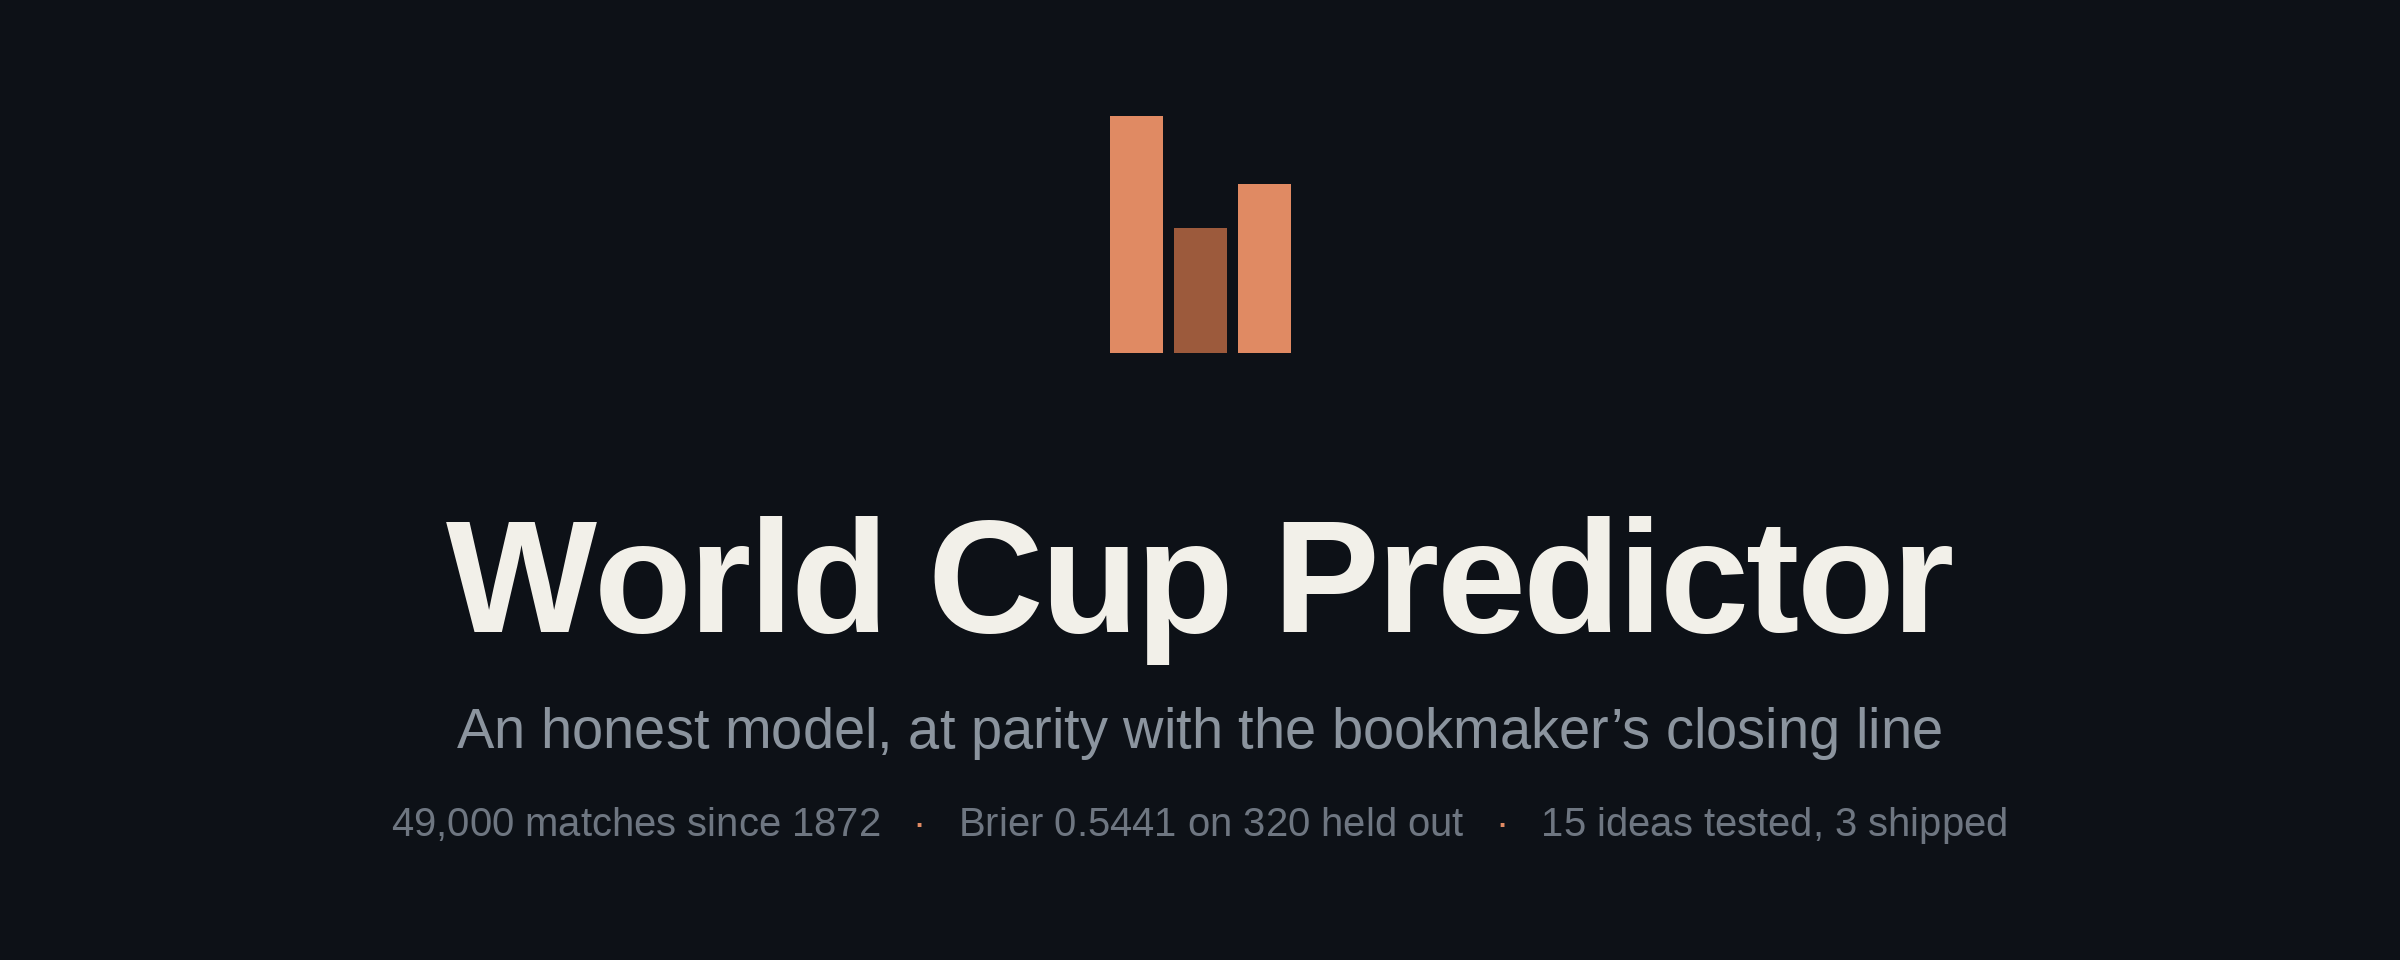
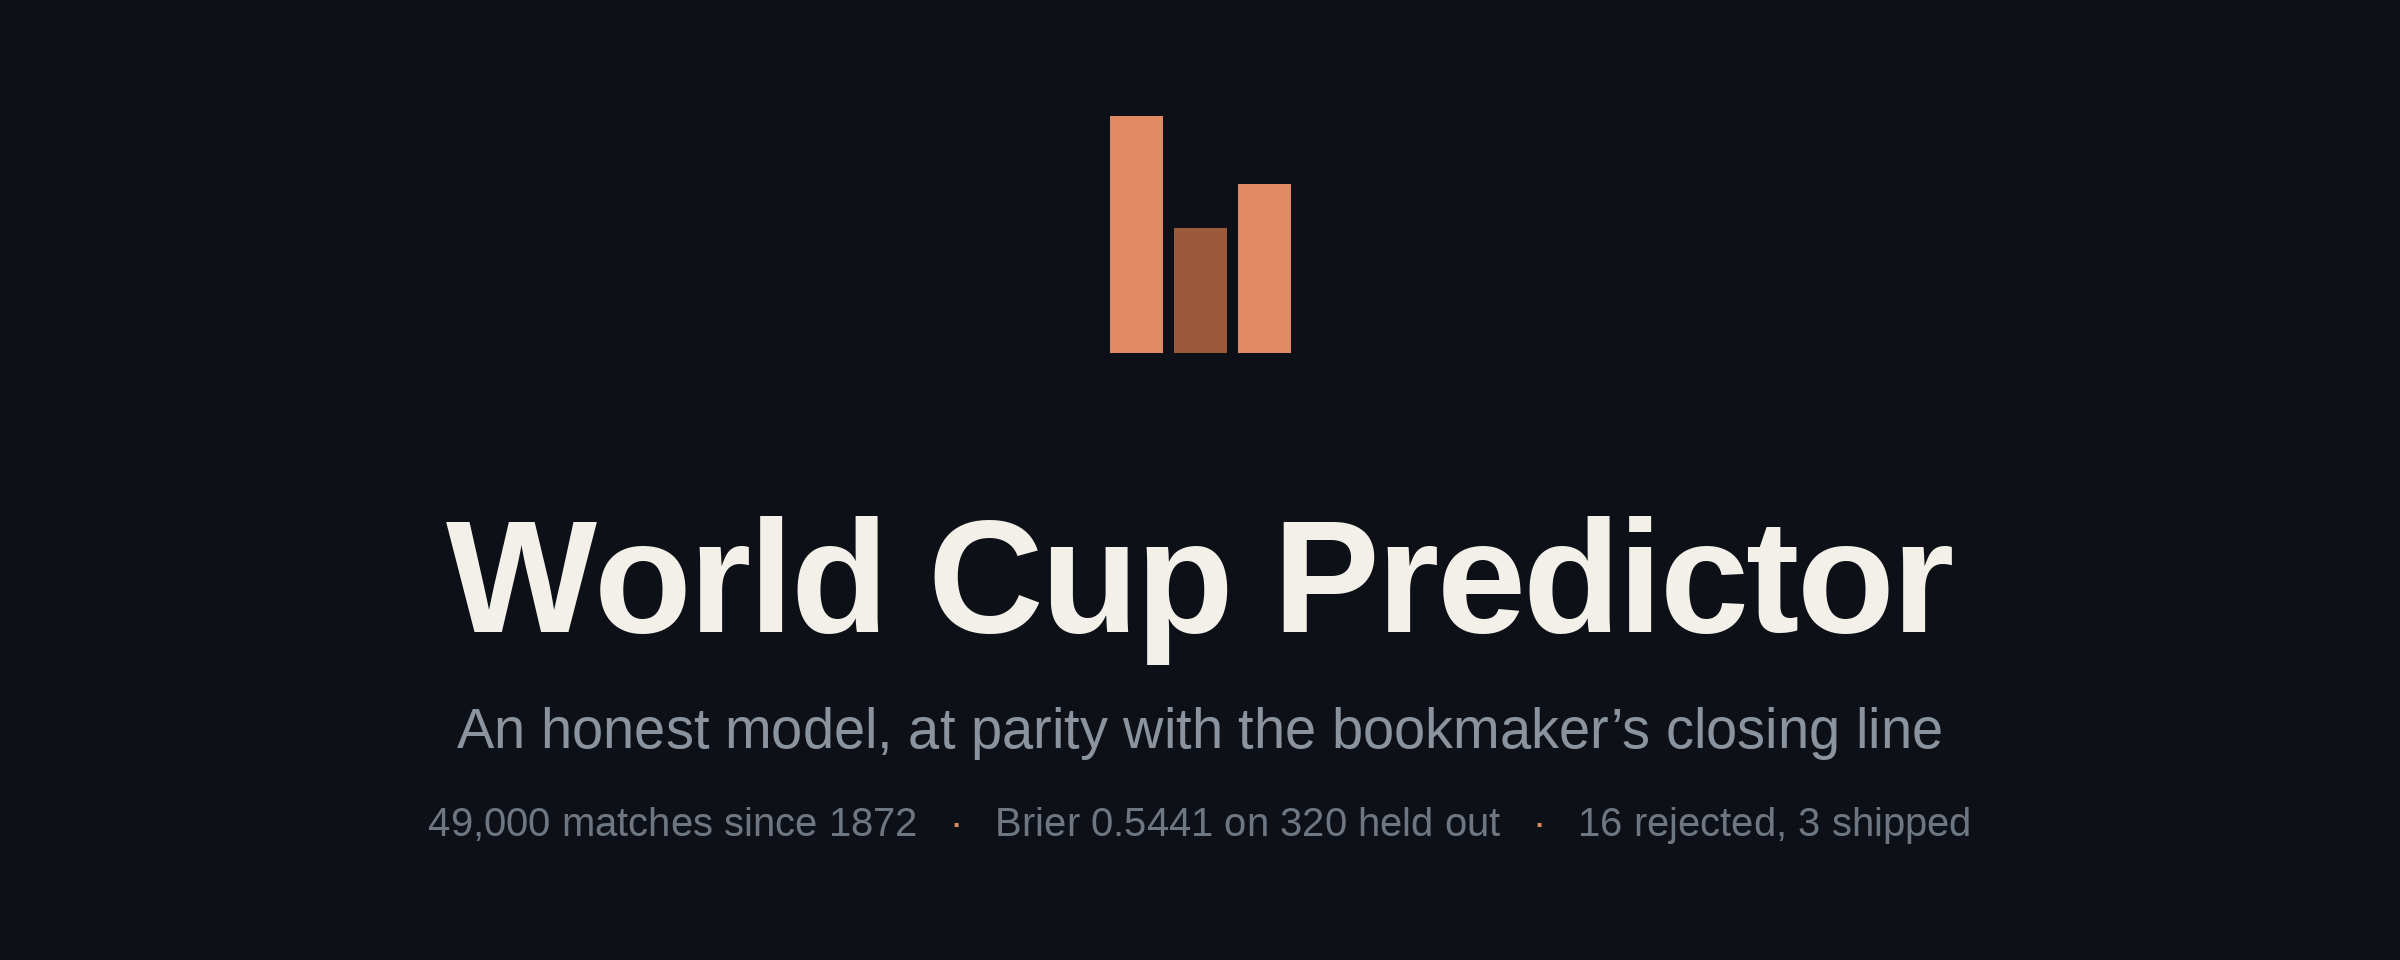
Reconcile rejected-idea count to 16 across site, card, and docs

Changed region(s): [[0.1562, 0.8438, 0.8438, 0.875]]

diff --git a/docs/index.html b/docs/index.html
@@ -4,16 +4,16 @@
 <meta charset="utf-8" />
 <meta name="viewport" content="width=device-width, initial-scale=1" />
 <title>World Cup Predictor</title>
-<meta name="description" content="An honest World Cup prediction model: level with the bookmaker's closing line, 15 rejected ideas documented, and every prediction locked in git before kickoff and scored live." />
+<meta name="description" content="An honest World Cup prediction model: level with the bookmaker's closing line, 16 rejected ideas documented, and every prediction locked in git before kickoff and scored live." />
 <meta property="og:type" content="website" />
 <meta property="og:site_name" content="World Cup Predictor" />
 <meta property="og:title" content="World Cup Predictor: at parity with the bookmaker closing line" />
-<meta property="og:description" content="A Dixon-Coles model that reached the closing line and no further. 320 held-out matches, 15 documented failures, predictions git-locked and scored live." />
+<meta property="og:description" content="A Dixon-Coles model that reached the closing line and no further. 320 held-out matches, 16 documented failures, predictions git-locked and scored live." />
 <meta property="og:url" content="https://qnicondavid.github.io/world-cup-predictor/" />
 <meta property="og:image" content="https://qnicondavid.github.io/world-cup-predictor/preview.png" />
 <meta name="twitter:card" content="summary_large_image" />
 <meta name="twitter:title" content="World Cup Predictor: at parity with the bookmaker closing line" />
-<meta name="twitter:description" content="A Dixon-Coles model that reached the closing line and no further. 320 held-out matches, 15 documented failures, predictions git-locked and scored live." />
+<meta name="twitter:description" content="A Dixon-Coles model that reached the closing line and no further. 320 held-out matches, 16 documented failures, predictions git-locked and scored live." />
 <meta name="twitter:image" content="https://qnicondavid.github.io/world-cup-predictor/preview.png" />
 <script src="https://cdn.jsdelivr.net/npm/chart.js@4.4.1/dist/chart.umd.min.js"></script>
 <style>

diff --git a/CONTRIBUTING.md b/CONTRIBUTING.md
@@ -2,7 +2,7 @@
 
 Thanks for taking an interest. This project has one unusual rule that shapes
 everything else: a change ships only if it clears an out-of-sample gate, and most
-proposed changes do not. Fifteen ideas are documented as rejected in the README;
+proposed changes do not. Sixteen ideas are documented as rejected in the README;
 three survived. A carefully measured failure, with its confidence interval, is a
 genuinely useful contribution here, not a wasted pull request.
 
